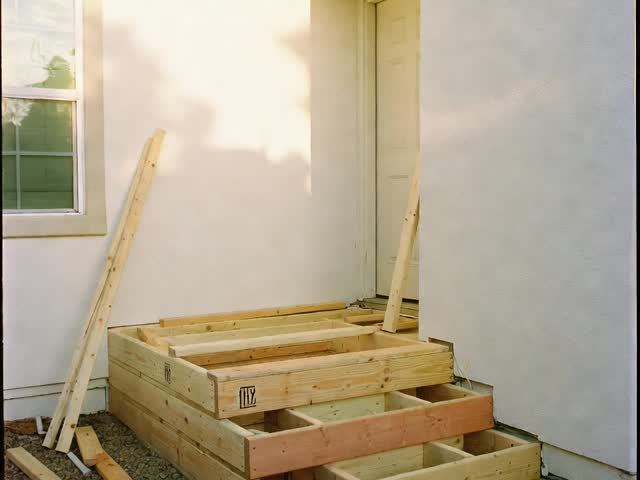
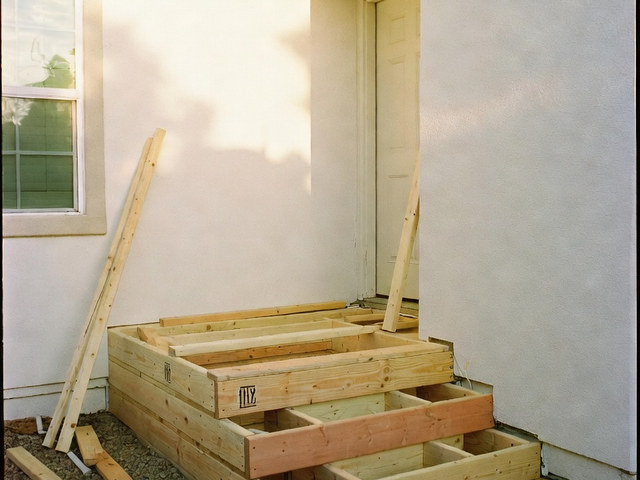
Restore service-tile image quality degraded in OG98
OG98 generated the tile derivatives at ~q40 webp (electrical-640.webp was
1.3 KB for 640x480). Regenerated from the originals at the same centre crop,
webp q86 / jpeg q88, plus a 2x variant per tile with srcset+sizes.
Old files kept in assets/img/_pre-restore-2026-09-06/.

Claude-Session: https://claude.ai/code/session_0198bkLkv2wu5HtFnz73xSiF

diff --git a/services.html b/services.html
@@ -65,7 +65,7 @@
       <div class="grid three">
 
         <a class="tile rise" href="#request" data-service="Electrical">
-          <div class="ph"><picture><source srcset="/assets/img/electrical-640.webp" type="image/webp"><img src="/assets/img/electrical-640.jpg" width="640" height="480" alt="Ceiling wiring ready for a new fixture" loading="lazy"></picture></div>
+          <div class="ph"><picture><source type="image/webp" srcset="/assets/img/electrical-640.webp 640w, /assets/img/electrical-1045.webp 1045w" sizes="(min-width:1140px) 356px, (min-width:900px) 31vw, (min-width:600px) 46vw, 92vw"><img src="/assets/img/electrical-640.jpg" srcset="/assets/img/electrical-640.jpg 640w, /assets/img/electrical-1045.jpg 1045w" sizes="(min-width:1140px) 356px, (min-width:900px) 31vw, (min-width:600px) 46vw, 92vw" width="640" height="480" alt="Ceiling wiring ready for a new fixture" loading="lazy" decoding="async"></picture></div>
           <div class="body">
             <h3><svg viewBox="0 0 24 24" aria-hidden="true" fill="#D9432B"><path d="M13 2 4 14h6l-1 8 9-12h-6l1-8z"/></svg>Electrical</h3>
             <p>Lighting, outlets, fixtures, ceiling fans, troubleshooting, and energy-minded updates.</p>
@@ -74,7 +74,7 @@
         </a>
 
         <a class="tile rise" href="#request" data-service="Plumbing">
-          <div class="ph"><picture><source srcset="/assets/img/plumbing-640.webp" type="image/webp"><img src="/assets/img/plumbing-640.jpg" width="640" height="480" alt="Hands working on a sink trap" loading="lazy"></picture></div>
+          <div class="ph"><picture><source type="image/webp" srcset="/assets/img/plumbing-640.webp 640w, /assets/img/plumbing-784.webp 784w" sizes="(min-width:1140px) 356px, (min-width:900px) 31vw, (min-width:600px) 46vw, 92vw"><img src="/assets/img/plumbing-640.jpg" srcset="/assets/img/plumbing-640.jpg 640w, /assets/img/plumbing-784.jpg 784w" sizes="(min-width:1140px) 356px, (min-width:900px) 31vw, (min-width:600px) 46vw, 92vw" width="640" height="480" alt="Hands working on a sink trap" loading="lazy" decoding="async"></picture></div>
           <div class="body">
             <h3><svg viewBox="0 0 24 24" aria-hidden="true" fill="#003153"><path d="M12 2s-6 7-6 12a6 6 0 0 0 12 0c0-5-6-12-6-12z"/></svg>Plumbing</h3>
             <p>Leaks, clogs, running toilets, water heaters, fixture swaps, and water-saving upgrades.</p>
@@ -92,7 +92,7 @@
         </a>
 
         <a class="tile rise" href="#request" data-service="Construction">
-          <div class="ph"><picture><source srcset="/assets/img/construction-640.webp" type="image/webp"><img src="/assets/img/construction-640.jpg" width="640" height="480" alt="New steps being framed at a front door" loading="lazy"></picture></div>
+          <div class="ph"><picture><source type="image/webp" srcset="/assets/img/construction-640.webp 640w, /assets/img/construction-784.webp 784w" sizes="(min-width:1140px) 356px, (min-width:900px) 31vw, (min-width:600px) 46vw, 92vw"><img src="/assets/img/construction-640.jpg" srcset="/assets/img/construction-640.jpg 640w, /assets/img/construction-784.jpg 784w" sizes="(min-width:1140px) 356px, (min-width:900px) 31vw, (min-width:600px) 46vw, 92vw" width="640" height="480" alt="New steps being framed at a front door" loading="lazy" decoding="async"></picture></div>
           <div class="body">
             <h3><svg viewBox="0 0 24 24" aria-hidden="true" fill="#66023C"><path d="M14.7 3.3 20.7 9.3l-2.1 2.1-1.4-1.4-1.4 1.4-1.4-1.4-9.2 9.2-2.8-2.8 9.2-9.2-1.4-1.4 1.4-1.4-1.4-1.4z"/></svg>Construction</h3>
             <p>Drywall, paint, doors, locks, trim, fences, decks, steps, rotted wood, and the small jobs nobody else will come out for.</p>
@@ -100,7 +100,7 @@
         </a>
 
         <a class="tile rise" href="#request" data-service="Garden &amp; Maintenance">
-          <div class="ph"><picture><source srcset="/assets/img/gardening-640.webp" type="image/webp"><img src="/assets/img/gardening-640.jpg" width="640" height="480" alt="Garden bed edging with hand tools" loading="lazy"></picture></div>
+          <div class="ph"><picture><source type="image/webp" srcset="/assets/img/gardening-640.webp 640w, /assets/img/gardening-784.webp 784w" sizes="(min-width:1140px) 356px, (min-width:900px) 31vw, (min-width:600px) 46vw, 92vw"><img src="/assets/img/gardening-640.jpg" srcset="/assets/img/gardening-640.jpg 640w, /assets/img/gardening-784.jpg 784w" sizes="(min-width:1140px) 356px, (min-width:900px) 31vw, (min-width:600px) 46vw, 92vw" width="640" height="480" alt="Garden bed edging with hand tools" loading="lazy" decoding="async"></picture></div>
           <div class="body">
             <h3><svg viewBox="0 0 24 24" aria-hidden="true" fill="#4FB87B"><path d="M20 4c-8 0-14 4-14 12 0 1.5.3 2.8.8 4L4 22l2.4-2.4C8.2 21 10 21.5 12 21.5c8 0 8-10 8-17.5zM8.5 17.5c2-4 5-7 8.5-9.5-4 1.5-7.5 4.5-9.5 8.5z"/></svg>Garden &amp; Maintenance</h3>
             <p>Yard care, garden setup, pressure washing, gutters, debris, and keeping a property up.</p>
@@ -108,7 +108,7 @@
         </a>
 
         <a class="tile rise" href="#request" data-service="Upgrade">
-          <div class="ph"><picture><source srcset="/assets/img/upgrade-960.webp" type="image/webp"><img src="/assets/img/upgrade-960.jpg" width="960" height="540" alt="A house with solar panels, rain barrels and a fruit garden" loading="lazy"></picture></div>
+          <div class="ph"><picture><source type="image/webp" srcset="/assets/img/upgrade-640.webp 640w, /assets/img/upgrade-1045.webp 1045w" sizes="(min-width:1140px) 356px, (min-width:900px) 31vw, (min-width:600px) 46vw, 92vw"><img src="/assets/img/upgrade-640.jpg" srcset="/assets/img/upgrade-640.jpg 640w, /assets/img/upgrade-1045.jpg 1045w" sizes="(min-width:1140px) 356px, (min-width:900px) 31vw, (min-width:600px) 46vw, 92vw" width="640" height="480" alt="A house with solar panels, rain barrels and a fruit garden" loading="lazy" decoding="async"></picture></div>
           <div class="body">
             <h3><svg viewBox="0 0 24 24" aria-hidden="true" fill="#D9432B"><path d="M21.7 7.3a1 1 0 0 0-1.4 0L18 9.6 14.4 6l2.3-2.3a1 1 0 0 0-1.4-1.4L13 4.6a5 5 0 0 0-6.6 6.1L2 15.1V22h6.9l4.4-4.4a5 5 0 0 0 6.1-6.6l2.3-2.3a1 1 0 0 0 0-1.4z"/></svg>Upgrade</h3>
             <p>Insulation and shade, solar-ready wiring, water catchment for the garden, a fruit tree, and the comfort improvements that make a house cheaper to live in.</p>
